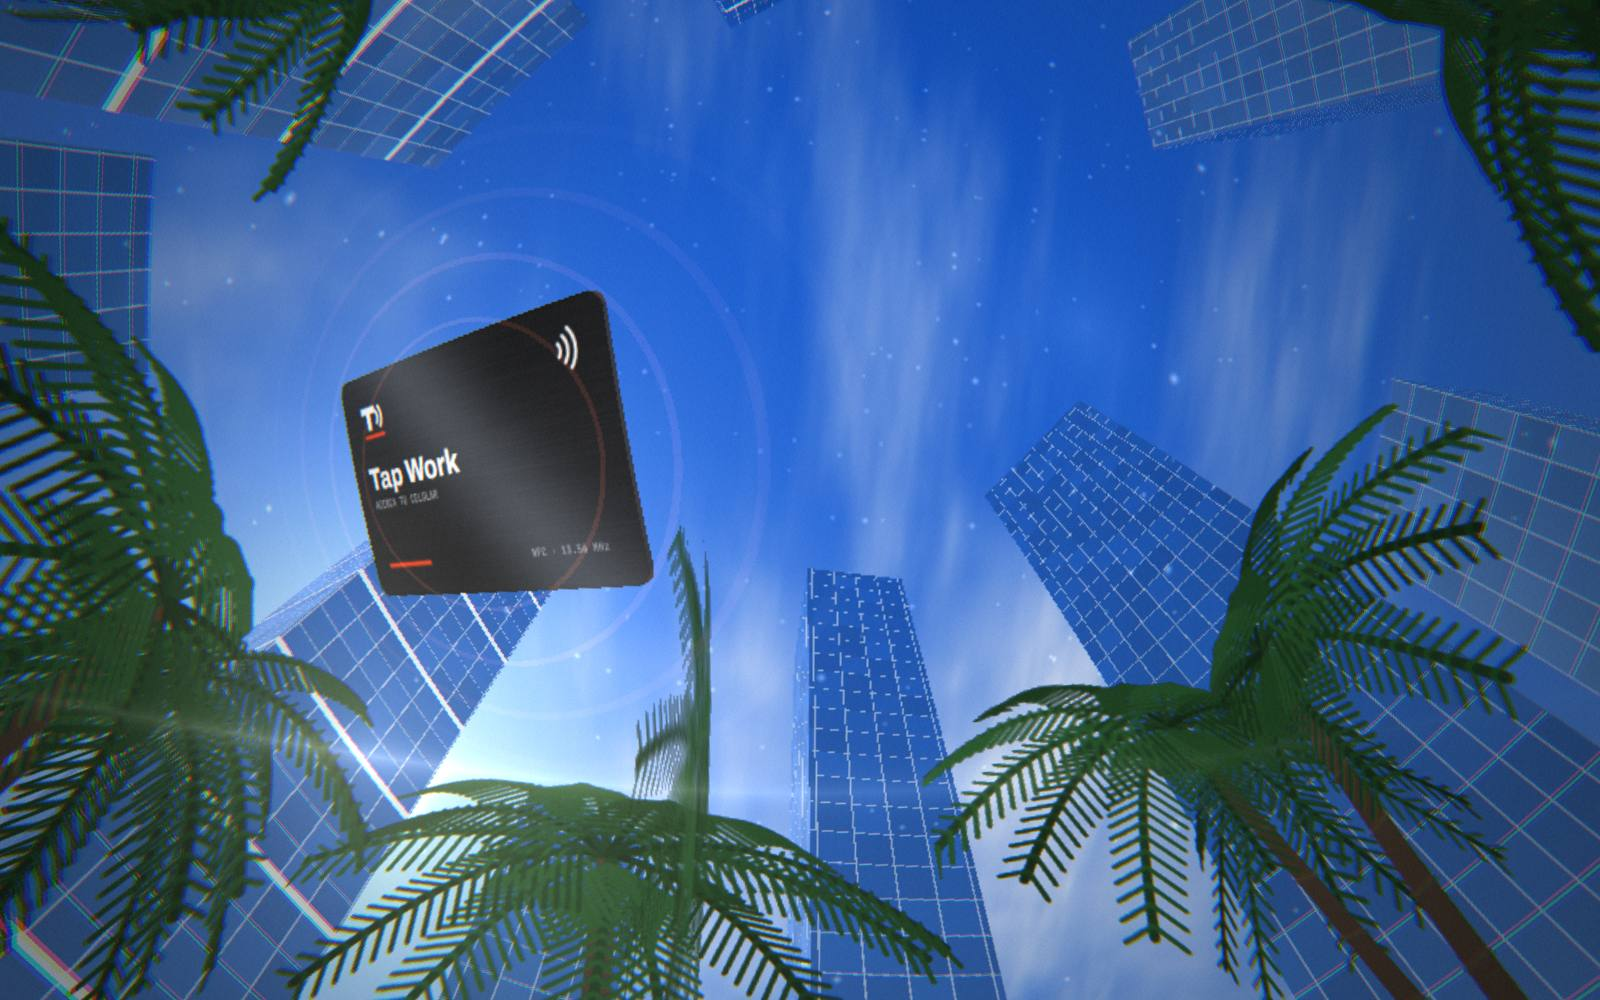
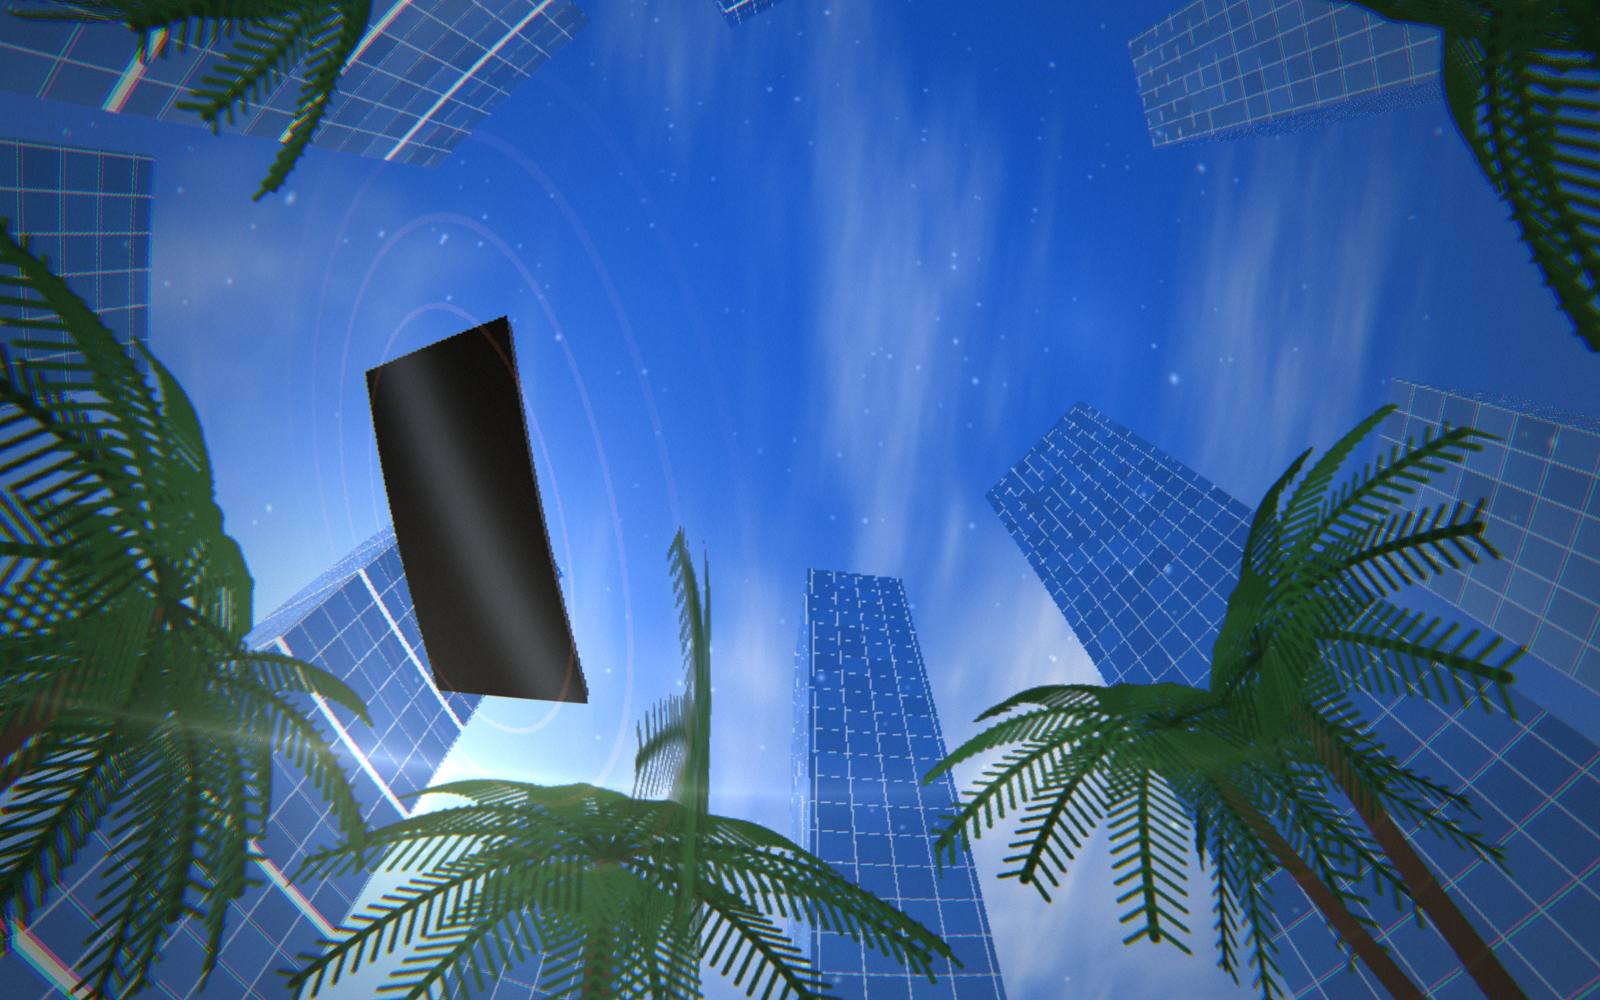
Sitio: la tarjeta de la escena es la tarjeta Tap Work real
La tarjeta 3D usaba un diseño dibujado aparte. Ahora lleva el arte de
impresión de print/out (frente con el monograma TP y "Tu negocio siempre
conectado", reverso con "Innovación que impulsa tu negocio"), recortado al
tamaño de corte, con las esquinas redondeadas de la tarjeta y en vertical
como la real. Se reubica en el hero y en el cierre para que no tape los
títulos, y en celular sale más pequeña.

Claude-Session: https://claude.ai/code/session_01CYkoYJ5yV4DxxiKQcYf75s

Changed region(s): [[0.1875, 0.279, 0.4062, 0.713]]

diff --git a/tapwork-site/futuro/scene.js b/tapwork-site/futuro/scene.js
@@ -11,7 +11,7 @@
   angle and a place for the card; between sections the scene eases from one to
   the next, and the afternoon turns to sunset toward the close.
 
-  window.TWScene.create(canvas) -> { setSection, setPointer, tap, start, stop, frame }
+  window.TWScene.create(canvas, { front, back }) -> { setSection, setPointer, tap, start, stop, frame }
 */
 (function () {
   if (!window.THREE) return;
@@ -20,11 +20,11 @@
   // Per-section shot. cx/cy place the card in camera space (right/up), with a
   // separate pair for portrait screens, where text owns the top and bottom.
   var SHOTS = [
-    { yaw: 0.00, pitch: 70, dist: 5.6, cx: -2.75, cy: 0.20, pcx: 0.0, pcy: 1.05, rx: 0.16, ry: -0.42, rz: 0.16, dusk: 0.00 },
-    { yaw: 0.95, pitch: 64, dist: 6.4, cx: -2.70, cy: 0.10, pcx: 0.0, pcy: 2.6, rx: 0.10, ry: 0.50, rz: -0.12, dusk: 0.08 },
-    { yaw: 1.85, pitch: 80, dist: 9.5, cx: 0.00, cy: 3.40, pcx: 0.0, pcy: 4.2, rx: 0.40, ry: 0.25, rz: 0.00, dusk: 0.18 },
-    { yaw: 2.70, pitch: 68, dist: 7.0, cx: 2.80, cy: 0.70, pcx: 0.0, pcy: 3.0, rx: 0.10, ry: -0.55, rz: 0.10, dusk: 0.42 },
-    { yaw: 3.50, pitch: 60, dist: 4.4, cx: 0.00, cy: 0.05, pcx: 0.0, pcy: 0.05, rx: 0.00, ry: 0.00, rz: 0.00, dusk: 0.92 }
+    { yaw: 0.00, pitch: 70, dist: 6.2, cx: -3.10, cy: -0.30, pcx: 0.0, pcy: 0.95, pdist: 7.6, rx: 0.16, ry: -0.42, rz: 0.16, dusk: 0.00 },
+    { yaw: 0.95, pitch: 64, dist: 6.4, cx: -2.70, cy: 0.10, pcx: 0.0, pcy: 2.6, pdist: 6.4, rx: 0.10, ry: 0.50, rz: -0.12, dusk: 0.08 },
+    { yaw: 1.85, pitch: 80, dist: 9.5, cx: 0.00, cy: 3.40, pcx: 0.0, pcy: 4.2, pdist: 9.5, rx: 0.40, ry: 0.25, rz: 0.00, dusk: 0.18 },
+    { yaw: 2.70, pitch: 68, dist: 7.0, cx: 2.80, cy: 0.70, pcx: 0.0, pcy: 3.0, pdist: 7.0, rx: 0.10, ry: -0.55, rz: 0.10, dusk: 0.42 },
+    { yaw: 3.50, pitch: 60, dist: 4.9, cx: 0.00, cy: -0.30, pcx: 0.0, pcy: -0.05, pdist: 4.9, rx: 0.00, ry: 0.00, rz: 0.00, dusk: 0.92 }
   ];
 
   var COMMON = [
@@ -139,56 +139,21 @@
     ctx.moveTo(x + r, y); ctx.arcTo(x + w, y, x + w, y + h, r); ctx.arcTo(x + w, y + h, x, y + h, r);
     ctx.arcTo(x, y + h, x, y, r); ctx.arcTo(x, y, x + w, y, r); ctx.closePath();
   }
-  // The Tap Work mark, same geometry as brand/tapwork-mark-dark.svg (100 units).
-  function drawMark(ctx, x, y, s, ink) {
-    var u = s / 100;
-    ctx.save(); ctx.translate(x, y); ctx.scale(u, u);
-    ctx.fillStyle = ink;
-    ctx.fillRect(15, 26, 48, 13.5); ctx.fillRect(32.2, 26, 13.6, 45);
-    ctx.strokeStyle = ink; ctx.lineWidth = 7.5; ctx.lineCap = 'round';
-    ctx.beginPath(); ctx.arc(52.5, 48.75, 16.5, -0.73, 0.73); ctx.stroke();
-    ctx.beginPath(); ctx.arc(51.5, 48.5, 30, -0.67, 0.67); ctx.stroke();
-    ctx.fillStyle = '#ec3013'; roundRect(ctx, 15, 79, 70, 7.5, 3.75); ctx.fill();
-    ctx.restore();
-  }
-
-  function cardCanvas(back, phone) {
-    var W = 1024, H = 646, c = document.createElement('canvas');
-    c.width = W; c.height = H;
-    var g = c.getContext('2d');
-    roundRect(g, 0, 0, W, H, 46); g.save(); g.clip();
-    var bg = g.createLinearGradient(0, 0, W, H);
-    bg.addColorStop(0, '#1c1e23'); bg.addColorStop(0.55, '#0c0d10'); bg.addColorStop(1, '#16171b');
-    g.fillStyle = bg; g.fillRect(0, 0, W, H);
-    g.globalAlpha = 0.05; g.strokeStyle = '#fff';
-    for (var i = 0; i < H; i += 3) { g.lineWidth = Math.random() * 0.8; g.beginPath(); g.moveTo(0, i); g.lineTo(W, i + 8); g.stroke(); }
-    g.globalAlpha = 1;
-    g.strokeStyle = '#f2f3f4'; g.lineCap = 'round';
-    if (!back) {
-      drawMark(g, 64, 52, 150, '#f2f3f4');
-      g.fillStyle = '#f2f3f4'; g.font = '800 92px Archivo, sans-serif';
-      g.fillText('Tap Work', 70, 330);
-      g.fillStyle = '#9aa0a8'; g.font = '500 30px "JetBrains Mono", monospace';
-      g.fillText('ACERCA TU CELULAR', 74, 384);
-      g.lineWidth = 9;
-      for (var k = 0; k < 3; k++) { g.beginPath(); g.arc(870, 110, 22 + k * 22, -0.75, 0.75); g.stroke(); }
-      g.fillStyle = '#ec3013'; g.fillRect(74, 548, 210, 12);
-      g.fillStyle = '#7c828b'; g.font = '500 26px "JetBrains Mono", monospace';
-      g.fillText('NFC · 13.56 MHz', 690, 562);
-    } else {
-      drawMark(g, 64, 52, 120, '#f2f3f4');
-      g.fillStyle = '#9aa0a8'; g.font = '600 34px Archivo, sans-serif';
-      g.fillText('Escr\u00edbenos por WhatsApp', 74, 300);
-      g.fillStyle = '#f2f3f4'; g.font = '800 104px Archivo, sans-serif';
-      g.fillText(phone, 70, 420);
-      g.fillStyle = '#ec3013'; g.fillRect(74, 548, 210, 12);
-      g.lineWidth = 9;
-      for (var j = 0; j < 3; j++) { g.beginPath(); g.arc(870, 110, 22 + j * 22, -0.75, 0.75); g.stroke(); }
-    }
-    g.restore();
-    var tex = new T.CanvasTexture(c);
-    tex.anisotropy = 4;
-    return tex;
+  // The real card: the print artwork from print/out, cropped to the trim and
+  // given the card's rounded corners (3.18 mm on a 54 mm edge).
+  function cardTexture(src, done) {
+    var img = new Image();
+    img.onload = function () {
+      var W = img.naturalWidth, H = img.naturalHeight, c = document.createElement('canvas');
+      c.width = W; c.height = H;
+      var g = c.getContext('2d');
+      roundRect(g, 0, 0, W, H, W * 3.18 / 54); g.clip();
+      g.drawImage(img, 0, 0, W, H);
+      var tex = new T.CanvasTexture(c);
+      tex.anisotropy = 4;
+      done(tex);
+    };
+    img.src = src;
   }
 
   // A palm, drawn once: curved trunk, a crown of fronds with leaflets.
@@ -293,7 +258,8 @@
     scene.add(motes);
 
     // ---- the card ----
-    var CW = 3.37, CH = 2.125;
+    // ID-1, stood on end like the printed design: 54 x 85.6 mm.
+    var CW = 2.125, CH = 3.37;
     var holder = new T.Group(); scene.add(holder);
     var card = new T.Group(); holder.add(card);
     var shape = new T.Shape(), r = 0.14, hw = CW / 2, hh = CH / 2;
@@ -330,13 +296,9 @@
       ring.position.z = 0.06; card.add(ring); rings.push(ring);
     }
 
-    function paintCard() {
-      front.material.uniforms.map.value = cardCanvas(false);
-      backFace.material.uniforms.map.value = cardCanvas(true, opts.phone || '');
-    }
-    if (document.fonts && document.fonts.load) {
-      Promise.all([document.fonts.load('800 92px Archivo'), document.fonts.load('500 26px "JetBrains Mono"')]).then(paintCard, paintCard);
-    } else paintCard();
+    front.visible = backFace.visible = false;
+    cardTexture(opts.front || 'v/card-front.jpg', function (t) { front.material.uniforms.map.value = t; front.visible = true; });
+    cardTexture(opts.back || 'v/card-back.jpg', function (t) { backFace.material.uniforms.map.value = t; backFace.visible = true; });
 
     // ---- post ----
     var rt = new T.WebGLRenderTarget(4, 4, { minFilter: T.LinearFilter, magFilter: T.LinearFilter });
@@ -391,13 +353,13 @@
       camRight.setFromMatrixColumn(camera.matrixWorld, 0);
       camUp.setFromMatrixColumn(camera.matrixWorld, 1);
 
-      var dist = S.dist * (portrait ? 0.78 : 1);
+      var dist = portrait ? (S.pdist || S.dist) * 0.78 : S.dist;
       holder.position.copy(fwd).multiplyScalar(dist);
       holder.position.addScaledVector(camRight, portrait ? S.pcx : S.cx);
       holder.position.addScaledVector(camUp, (portrait ? S.pcy : S.cy) + Math.sin(t * 1.1) * 0.07);
       holder.quaternion.copy(camera.quaternion);
 
-      // Tap: the card flips to its back (the phone number) and the rings burst.
+      // Tap: the card jumps toward the viewer, flips to its back and the rings burst.
       state.flip += ((state.flipped ? Math.PI : 0) - state.flip) * 0.08;
       var since = t - state.tapAt;
       var jolt = since < 0.6 ? Math.sin(since / 0.6 * Math.PI) * 0.35 : 0;
@@ -415,7 +377,7 @@
       for (var i = 0; i < rings.length; i++) {
         var k = ((t * (0.5 + burst * 1.5)) + i / rings.length) % 1;
         var s = 1.0 + k * (2.0 + burst * 2.5);
-        rings[i].scale.set(s * 1.25, s, 1);
+        rings[i].scale.set(s * 1.1, s * 1.7, 1);
         rings[i].material.opacity = (1 - k) * facing * (0.28 + burst * 0.7 + S.dusk * 0.25);
       }
 

diff --git a/tapwork-site/futuro/index.html b/tapwork-site/futuro/index.html
@@ -52,6 +52,7 @@
   .world::after { content: ""; position: absolute; inset: 0; pointer-events: none;
     background: linear-gradient(180deg, rgba(4, 18, 48, .45), transparent 26%, transparent 70%, rgba(4, 14, 36, .55)); }
   main, footer, .bar { position: relative; z-index: 1; }
+  main { overflow-x: hidden; overflow-x: clip; }
 
   .btn { display: inline-flex; align-items: center; gap: 10px; padding: 14px 22px; border-radius: 999px;
     font-size: 15px; font-weight: 700; text-decoration: none; border: 1px solid var(--edge);
@@ -134,7 +135,7 @@
 
   /* ----------------------------------------------------------- products */
   .prod { overflow-x: hidden; overflow-x: clip; }
-  .deck { padding: clamp(24px, 4vw, 56px); background: rgba(6, 16, 36, .58); }
+  .deck { padding: clamp(24px, 4vw, 56px); background: rgba(6, 16, 36, .58); overflow: hidden; }
   .deck__head { display: flex; flex-wrap: wrap; justify-content: space-between; align-items: flex-end; gap: 20px 40px; }
   .segs { display: flex; flex-wrap: wrap; gap: 8px; margin-top: 34px; }
   .segs button { border: 1px solid rgba(255, 255, 255, .18); background: rgba(255, 255, 255, .06); border-radius: 999px;
@@ -197,7 +198,7 @@
   .close__small { margin: 0; font-size: clamp(22px, 2.6vw, 36px); font-weight: 500; color: var(--soft); text-shadow: 0 2px 20px rgba(40, 10, 40, .4); }
   .close h2 { margin: 0; font-size: clamp(56px, 9vw, 140px); line-height: .9; font-weight: 500; text-shadow: 0 6px 40px rgba(60, 10, 30, .4); }
   /* The tap target sits where the scene draws the card in this shot. */
-  .tapzone { align-self: center; width: min(80vw, 520px); max-height: 100%; aspect-ratio: 1.6; border: 0; background: transparent;
+  .tapzone { align-self: center; height: min(52vh, 460px); max-width: 80vw; aspect-ratio: .63; border: 0; background: transparent;
     border-radius: 28px; cursor: pointer; display: grid; place-items: end center; padding: 0; }
   .tapzone__hint { transform: translateY(70%); display: inline-flex; align-items: center; gap: 10px; padding: 10px 16px;
     border-radius: 999px; background: rgba(255, 255, 255, .14); border: 1px solid var(--edge); backdrop-filter: blur(12px);

diff --git a/tapwork-site/futuro/app.js b/tapwork-site/futuro/app.js
@@ -245,7 +245,7 @@
     var canvas = document.querySelector('.world canvas');
     load('js/three.min.js').then(function () { return load('js/scene.js'); }).then(function () {
       if (!window.TWScene) return;
-      scene = window.TWScene.create(canvas, { phone: (document.querySelector('.tel') || {}).textContent || '' });
+      scene = window.TWScene.create(canvas, {});
       if (!scene) return;
       scene.setSection(still ? 0 : section());
       scene.frame();

diff --git a/tapwork-site/buildsitio.py b/tapwork-site/buildsitio.py
@@ -134,7 +134,7 @@ def build():
     shutil.copy(os.path.join(SRC, 'scene.js'), os.path.join(OUT, 'js', 'scene.js'))
     shutil.copy(os.path.join(SRC, 'three.min.js'), os.path.join(OUT, 'js', 'three.min.js'))
     shutil.copy(os.path.join(REPO, 'assets', 'lenis.min.js'), os.path.join(OUT, 'js', 'lenis.min.js'))
-    for f in ('hero-poster.jpg', 'hero-poster-m.jpg', 'panel.jpg'):
+    for f in ('hero-poster.jpg', 'hero-poster-m.jpg', 'panel.jpg', 'card-front.jpg', 'card-back.jpg'):
         shutil.copy(os.path.join(SRC, f), os.path.join(OUT, 'v', f))
     for f in os.listdir(FONTS):
         shutil.copy(os.path.join(FONTS, f), os.path.join(OUT, 'fonts', f))

diff --git a/tapwork-site/README.md b/tapwork-site/README.md
@@ -81,9 +81,9 @@ archivos o las capturas salen de una copia vieja. El script hace justo eso:
 
 - `futuro/scene.js`: el mundo en three.js, fijo detrás de toda la página. Calle
   vista desde abajo en ojo de pez, torres de vidrio, palmeras, cámara que gira
-  lento y la tarjeta Tap Work. Cada sección tiene su ángulo de cámara y su
+  lento y la tarjeta Tap Work real (el arte de `print/out`, en vertical). Cada sección tiene su ángulo de cámara y su
   lugar para la tarjeta; la luz va de la tarde al atardecer. Al final la
-  tarjeta se toca y se voltea para mostrar el WhatsApp. Todo es procedural,
+  tarjeta se toca y se voltea al reverso. Todo es procedural,
   no descarga texturas.
 - `futuro/app.js`: la cámara que sigue a las secciones, el carrusel 3D de los
   nueve reels con una pestaña por tipo de negocio, los títulos que entran
